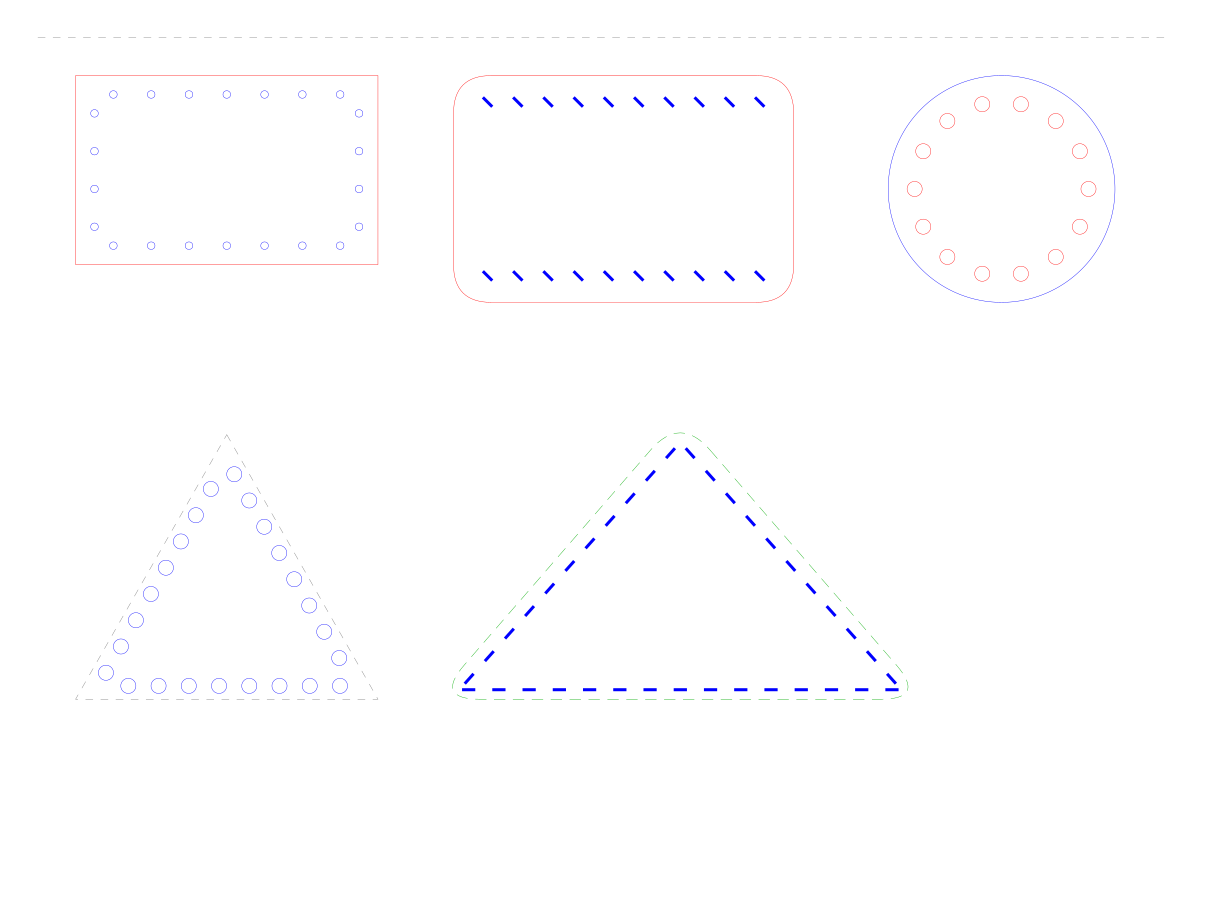
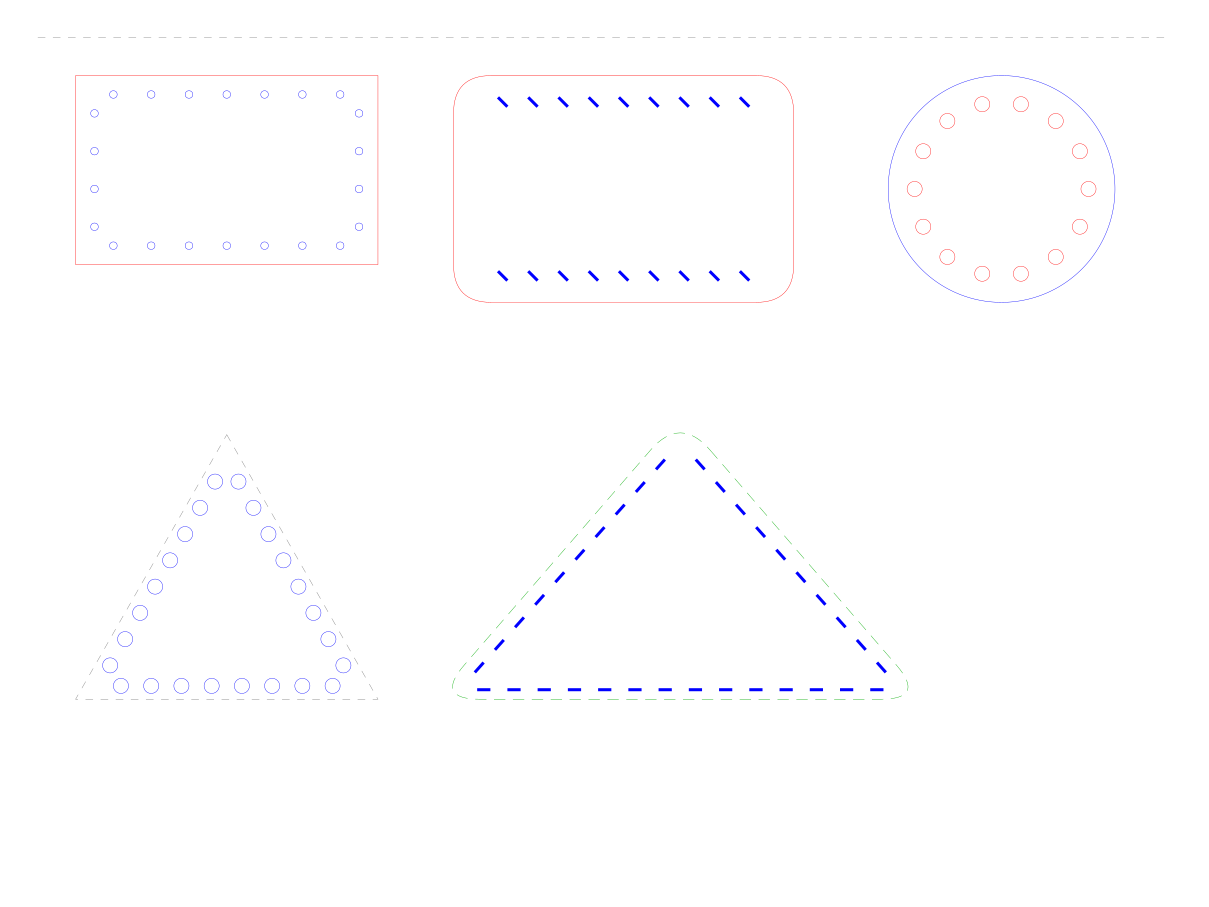
Refactor point generation logic in `points_on_line` and `segments_on_line` functions
- Updated `points_on_line` to simplify corner inclusion logic and ensure proper spacing.
- Adjusted `segments_on_line` to correct count calculation for segments.
- Improved readability and maintainability of the code.

diff --git a/laser_svg.py b/laser_svg.py
@@ -387,17 +387,20 @@ def points_on_line(p1: Point, p2: Point, spacing: float, include_corners: bool =
     length = distance(p1, p2)
     if length == 0:
         return []
-    start = 0.0 if include_corners else spacing / 2
-    end = length if include_corners else length - spacing / 2
-    if end < start:
-        return []
     dx = (p2.x - p1.x) / length
     dy = (p2.y - p1.y) / length
     points = []
-    pos = start
-    while pos <= end + 0.001:
-        points.append(Point(p1.x + dx * pos, p1.y + dy * pos))
-        pos += spacing
+    if include_corners:
+        pos = 0.0
+        while pos <= length + 0.001:
+            points.append(Point(p1.x + dx * pos, p1.y + dy * pos))
+            pos += spacing
+    else:
+        count = max(1, int(length / spacing))
+        margin = (length - (count - 1) * spacing) / 2
+        for i in range(count):
+            pos = margin + i * spacing
+            points.append(Point(p1.x + dx * pos, p1.y + dy * pos))
     return points
 
 
@@ -437,7 +440,7 @@ def segments_on_line(
             )
             pos += spacing
     else:
-        count = max(1, int(length / spacing) + 1)
+        count = max(1, int(length / spacing))
         margin = (length - (count - 1) * spacing) / 2
         for i in range(count):
             pos = margin + i * spacing
